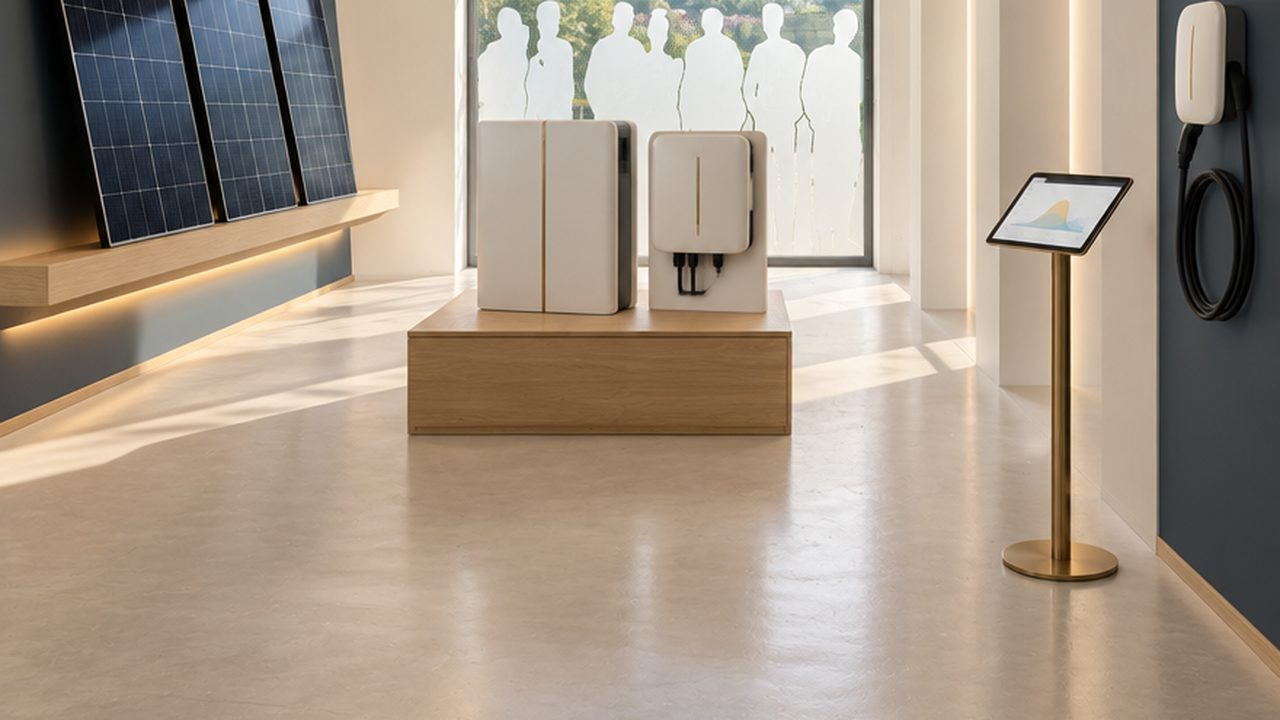
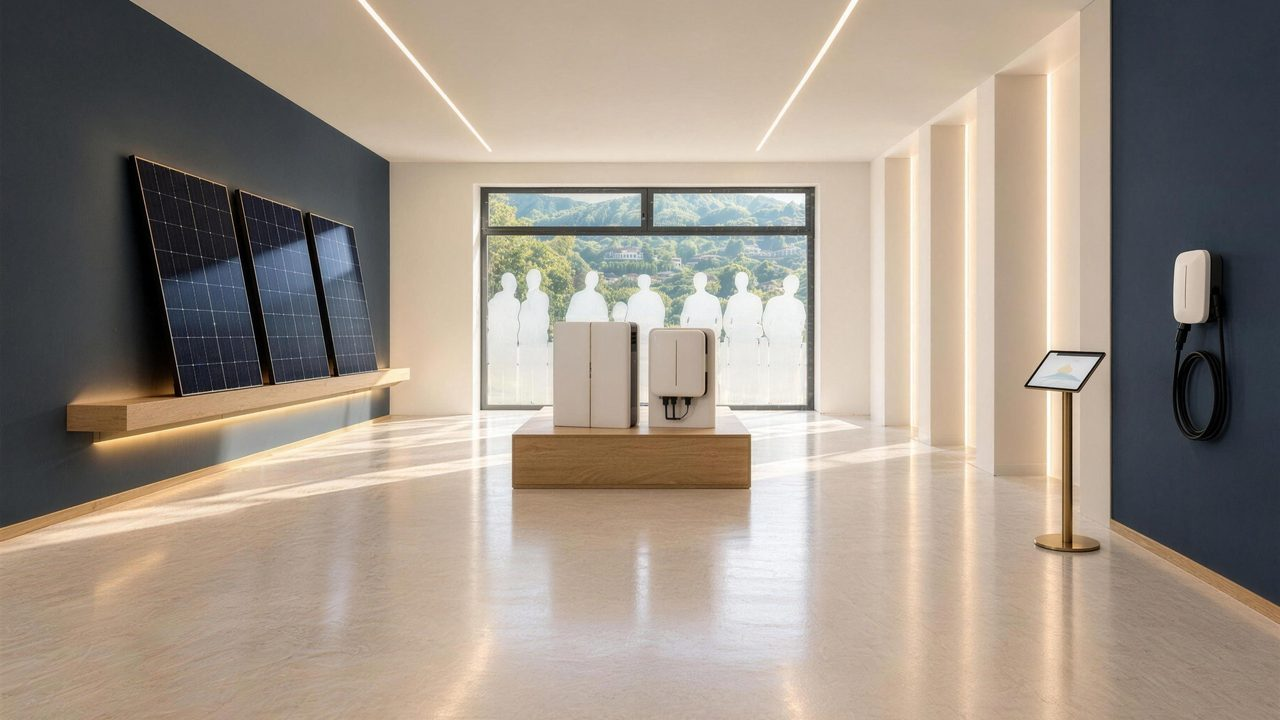
Showroom: hero fotografico a tutta larghezza (photo_hero)
Nuovo componente photo_hero(): foto a tutto schermo sotto l'header
(min 72vh), velatura in basso e a sinistra, eyebrow/titolo/lede/bottoni
sull'immagine. Foto orizzontale della sala d'ingresso generata dalla
fotografia originale e portata a 2560 px, con varianti 480/960/1440;
in portrait il <picture> passa alla verticale originale. og:image
ricavata dalla foto larga.

Claude-Session: https://claude.ai/code/session_01NntfuVAQBngHjdgPqZBbeP

diff --git a/showroom/index.html b/showroom/index.html
@@ -48,15 +48,17 @@
   </div>
 </header>
 <main id="main" tabindex="-1">
-<section class="page-hero reveal">
-  <div class="wrap ph-grid">
-    <div class="part">
-      <span class="eyebrow">Showroom</span>
-      <h1>Vieni a toccare quello che di solito si compra al telefono.</h1>
-      <p class="lede">In Via Prati 1, a Omegna, ci sono pompe di calore accese, un accumulo che lavora, serramenti da aprire e MONITOR su uno schermo vero. Mezz'ora dal vivo vale più di dieci preventivi.</p>
-      <div class="row"><a class="btn btn-blue" href="#visita">Prenota la visita</a><a class="btn btn-outline" href="https://www.google.com/maps/search/?api=1&query=Via+Prati+1+28887+Omegna+VB" target="_blank" rel="noopener">Indicazioni stradali</a></div>
-    </div>
-    <figure class="ph-img"><picture><source type="image/avif" srcset="../assets/showroom-ingresso-480.avif 480w" sizes="(max-width:600px) calc(100vw - 40px), (max-width:900px) calc(100vw - 80px), (max-width:1360px) 40vw, 524px"><source type="image/webp" srcset="../assets/showroom-ingresso-480.webp 480w" sizes="(max-width:600px) calc(100vw - 40px), (max-width:900px) calc(100vw - 80px), (max-width:1360px) 40vw, 524px"><img src="../assets/showroom-ingresso.jpg" srcset="../assets/showroom-ingresso-480.jpg 480w" sizes="(max-width:600px) calc(100vw - 40px), (max-width:900px) calc(100vw - 80px), (max-width:1360px) 40vw, 524px" alt="La sala d&#x27;ingresso dello showroom Baboo: moduli fotovoltaici, accumulo e wallbox" loading="eager" width="1280" height="800"></picture></figure>
+<section class="photo-hero showroom" aria-label="Introduzione">
+  <picture class="bg">
+    <source media="(orientation:portrait)" type="image/avif" srcset="../assets/showroom-ingresso-480.avif 480w, ../assets/showroom-ingresso.jpg 880w" sizes="100vw"><source media="(orientation:portrait)" type="image/webp" srcset="../assets/showroom-ingresso-480.webp 480w, ../assets/showroom-ingresso.jpg 880w" sizes="100vw"><source media="(orientation:portrait)" type="image/jpeg" srcset="../assets/showroom-ingresso-480.jpg 480w, ../assets/showroom-ingresso.jpg 880w" sizes="100vw"><source type="image/avif" srcset="../assets/showroom-wide-480.avif 480w, ../assets/showroom-wide-960.avif 960w, ../assets/showroom-wide-1440.avif 1440w" sizes="100vw"><source type="image/webp" srcset="../assets/showroom-wide-480.webp 480w, ../assets/showroom-wide-960.webp 960w, ../assets/showroom-wide-1440.webp 1440w" sizes="100vw">
+    <img src="../assets/showroom-wide.jpg" srcset="../assets/showroom-wide-480.jpg 480w, ../assets/showroom-wide-960.jpg 960w, ../assets/showroom-wide-1440.jpg 1440w, ../assets/showroom-wide.jpg 2560w" sizes="100vw" alt="La sala d'ingresso dello showroom Baboo: moduli fotovoltaici, accumulo e wallbox" loading="eager" fetchpriority="high" width="2560" height="1522">
+  </picture>
+  <div class="scrim" aria-hidden="true"></div>
+  <div class="wrap inner">
+    <span class="eyebrow">Showroom</span>
+    <h1>Vieni a toccare quello che di solito si compra al telefono.</h1>
+    <p class="lede">In Via Prati 1, a Omegna, ci sono pompe di calore accese, un accumulo che lavora, serramenti da aprire e MONITOR su uno schermo vero. Mezz'ora dal vivo vale più di dieci preventivi.</p>
+    <div class="row"><a class="btn btn-blue" href="#visita">Prenota la visita</a><a class="btn btn-ghost" href="https://www.google.com/maps/search/?api=1&query=Via+Prati+1+28887+Omegna+VB" target="_blank" rel="noopener">Indicazioni stradali</a></div>
   </div>
 </section>
 

diff --git a/assets/pages.css b/assets/pages.css
@@ -362,3 +362,16 @@ ul.checks.cols2 li{break-inside:avoid;margin:0 0 .7em}
 .visit .card h3{margin-bottom:.4em}
 .visit .card p{color:var(--ink-soft);font-size:.95rem}
 .ph-img.coffee{aspect-ratio:4/3;margin-top:28px}
+
+/* ---------- Hero fotografico a tutta larghezza (Showroom) ---------- */
+.photo-hero{position:relative;min-height:72vh;display:flex;align-items:flex-end;overflow:hidden;background:var(--slate);color:#fff;isolation:isolate}
+.photo-hero .bg,.photo-hero .bg img{position:absolute;inset:0;width:100%;height:100%;display:block}
+.photo-hero .bg img{object-fit:cover;object-position:50% 55%}
+.photo-hero .scrim{position:absolute;inset:0;background:linear-gradient(90deg,rgba(20,28,36,.42) 0%,rgba(20,28,36,.18) 40%,rgba(20,28,36,0) 62%),linear-gradient(180deg,rgba(20,28,36,.10) 0%,rgba(20,28,36,.04) 38%,rgba(20,28,36,.66) 100%)}
+.photo-hero .inner{position:relative;width:100%;padding:120px var(--pad) 64px}
+.photo-hero .eyebrow{color:var(--swan)}
+.photo-hero h1{color:#fff;font-size:clamp(2rem,3.6vw,3.4rem);max-width:16ch;margin:.3em 0 .45em;text-shadow:0 2px 24px rgba(5,8,12,.35)}
+.photo-hero .lede{color:#E6EDF3;max-width:56ch;text-shadow:0 1px 14px rgba(5,8,12,.35)}
+.photo-hero .row{margin-top:28px}
+@media (orientation:portrait){.photo-hero{min-height:78vh}.photo-hero .bg img{object-position:50% 40%}.photo-hero .scrim{background:linear-gradient(180deg,rgba(20,28,36,.12) 0%,rgba(20,28,36,.08) 30%,rgba(20,28,36,.74) 100%)}}
+@media (max-width:600px){.photo-hero .inner{padding:96px var(--pad) 44px}.photo-hero h1{max-width:none}.photo-hero .lede{font-size:1rem}}
